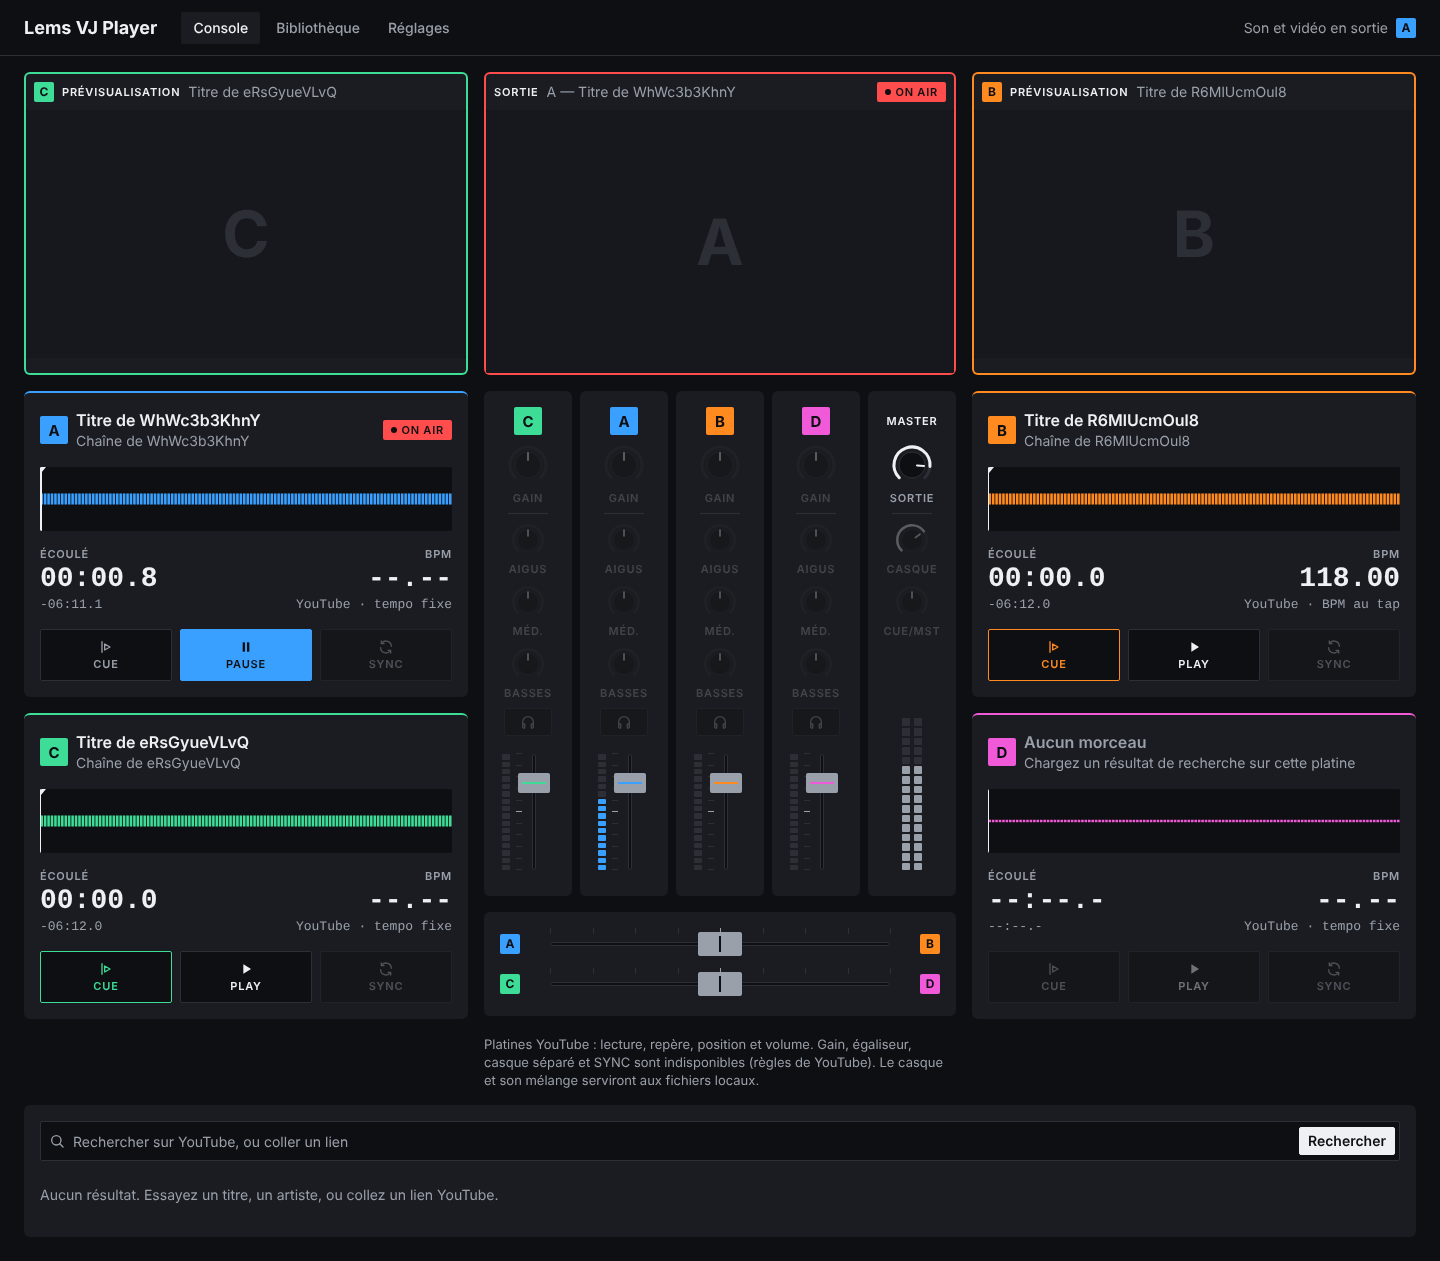
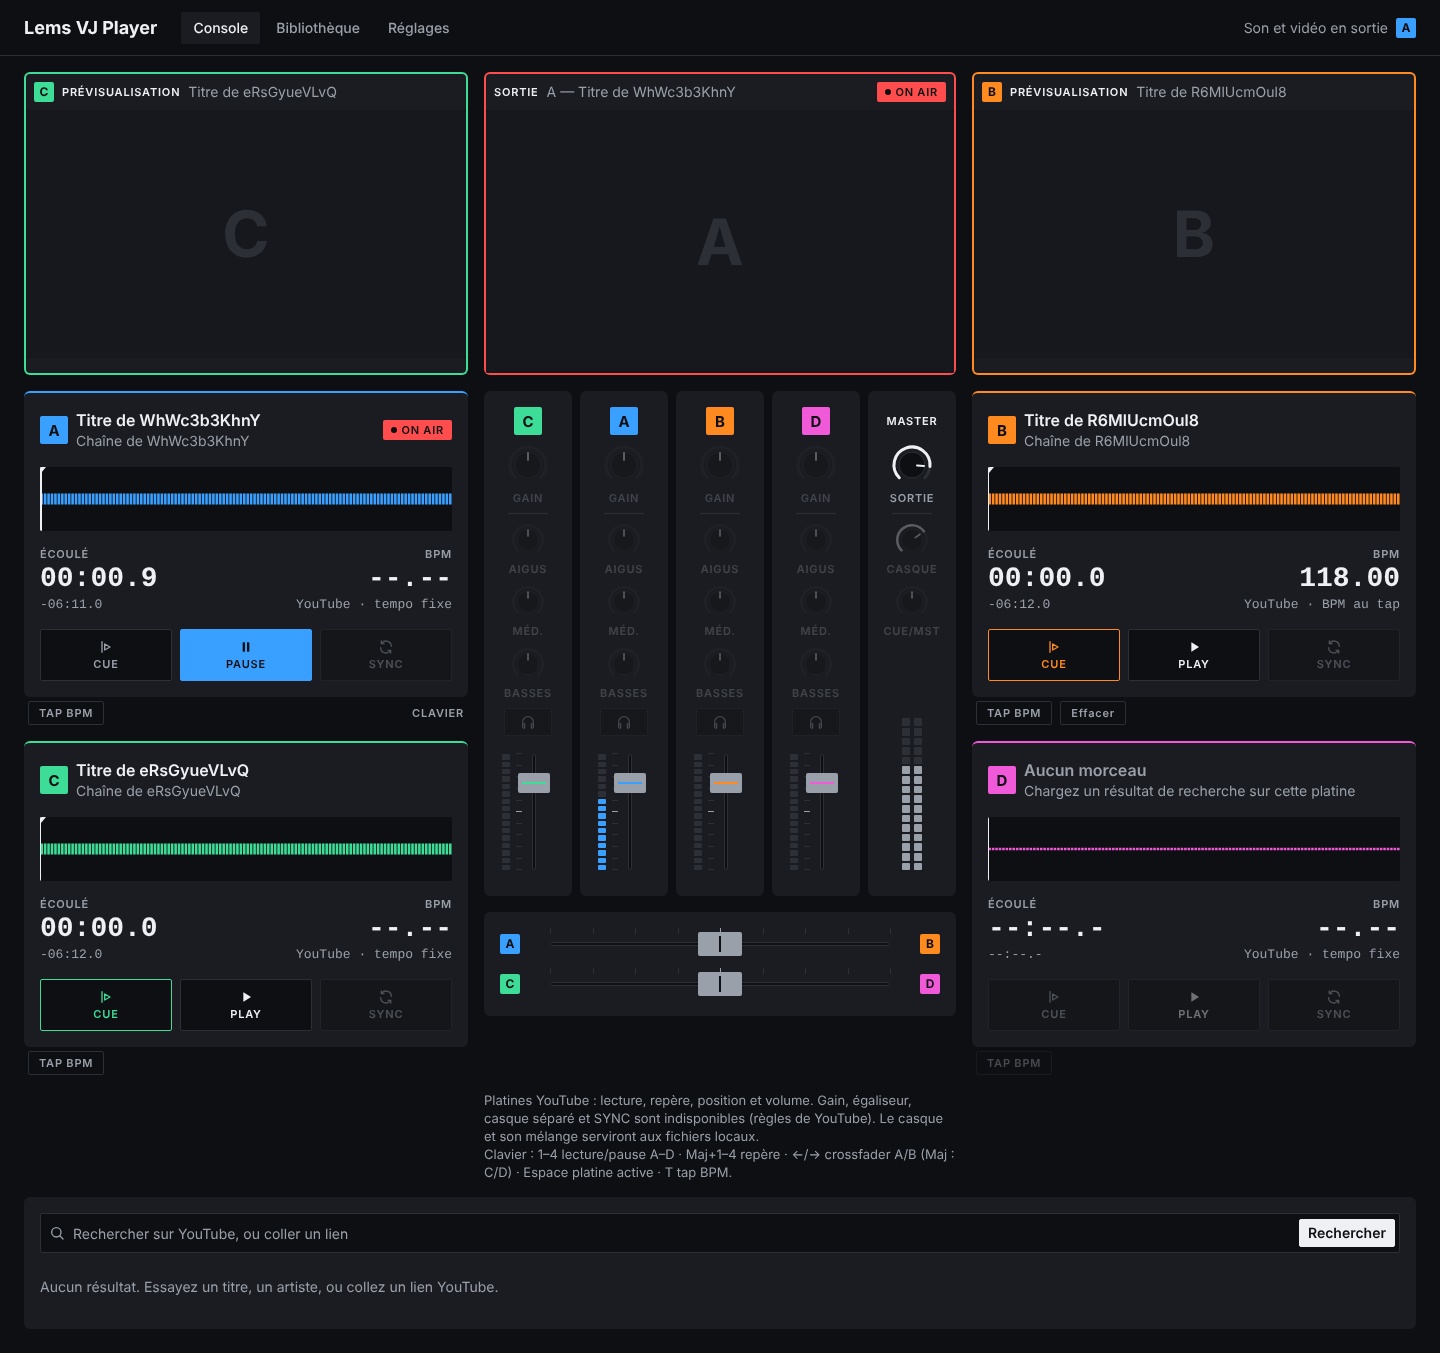
Console : raccourcis clavier et BPM au tap
1–4 lecture/pause A–D, Maj+1–4 repère, flèches crossfader A/B (Maj : C/D),
Espace platine active, T tap BPM ; bouton TAP BPM sous chaque platine
(4 frappes au moins, médiane des intervalles), BPM gardé en bibliothèque.
Touches physiques (code) : mêmes gestes en AZERTY et en QWERTY.
5 vérifications de plus (46).

Claude-Session: https://claude.ai/code/session_019qTL3vEknq4XVENghWxg6y

diff --git a/app/src/views/Console.tsx b/app/src/views/Console.tsx
@@ -1,5 +1,5 @@
 // Vue 1 — la console : quatre platines, le mixeur, les moniteurs, la recherche.
-import { useMemo, useState } from 'react';
+import { useEffect, useMemo, useRef, useState } from 'react';
 import { DECKS, L, type DeckId, type SearchResult } from '../design';
 import { engine, useEngine } from '../engine';
 import { Tray, assignSlots } from '../Stage';
@@ -29,6 +29,37 @@ export function Console({ settings, library, onLibraryChange }: ConsoleProps) {
   const [results, setResults] = useState<SearchResult[]>([]);
   const [loading, setLoading] = useState(false);
   const [error, setError] = useState<string | null>(null);
+  const taps = useRef<Partial<Record<DeckId, number[]>>>({});
+
+  // BPM au tap : au moins 4 frappes, médiane des intervalles ; une pause de 2 s recommence.
+  function tap(d: DeckId) {
+    const now = performance.now(), list = (taps.current[d] ?? []).filter((t) => now - t < 2000);
+    list.push(now); taps.current[d] = list.slice(-12);
+    if (list.length >= 4) {
+      const gaps = list.slice(1).map((t, i) => t - list[i]).sort((x, y) => x - y);
+      const med = gaps[gaps.length >> 1];
+      engine.setBpm(d, Math.round((60000 / med) * 10) / 10);
+    }
+  }
+
+  // Raccourcis (indépendants de la disposition du clavier : chiffres, flèches, espace).
+  // 1–4 : lecture/pause A–D · Maj+1–4 : repère A–D · ←/→ : crossfader A/B · Maj+←/→ : C/D · Espace : platine active · T : BPM au tap.
+  useEffect(() => {
+    const onKey = (e: KeyboardEvent) => {
+      const t = e.target as HTMLElement | null;
+      if (t && (t.tagName === 'INPUT' || t.tagName === 'TEXTAREA' || t.isContentEditable)) return;
+      const m = /^Digit([1-4])$/.exec(e.code);
+      if (m) { const d = DECKS[+m[1] - 1]; e.preventDefault(); e.shiftKey ? engine.cue(d) : engine.toggle(d); engine.focus(d); return; }
+      if (e.code === 'ArrowLeft' || e.code === 'ArrowRight') {
+        const pair = e.shiftKey ? 'cd' : 'ab', cur = engine.getState().mix[pair];
+        e.preventDefault(); engine.setCrossfader(pair, cur + (e.code === 'ArrowRight' ? 0.1 : -0.1)); return;
+      }
+      if (e.code === 'Space') { const d = engine.focused ?? engine.program(); if (d) { e.preventDefault(); engine.toggle(d); } return; }
+      if (e.code === 'KeyT') { const d = engine.focused ?? engine.program(); if (d) { e.preventDefault(); tap(d); } }
+    };
+    window.addEventListener('keydown', onKey);
+    return () => window.removeEventListener('keydown', onKey);
+  }, []);
 
   async function search(q: string) {
     if (!q.trim()) return;
@@ -56,12 +87,19 @@ export function Console({ settings, library, onLibraryChange }: ConsoleProps) {
   function deckView(d: DeckId) {
     const dk = st.decks[d], t = dk.track;
     return (
-      <L.Deck key={d} deck={d} source="youtube" title={t?.title} artist={t ? (t.channel || 'YouTube') : undefined}
+      <div key={d} className="deck-block" onPointerDownCapture={() => engine.focus(d)}>
+      <L.Deck deck={d} source="youtube" title={t?.title} artist={t ? (t.channel || 'YouTube') : undefined}
         duration={dk.duration} bpm={t?.bpm ?? null} keyName={t ? (t.bpm ? 'YouTube · BPM au tap' : 'YouTube · tempo fixe') : null}
         position={dk.position} cuePoint={dk.cuePoint} playing={dk.playing} peaks={FLAT_PEAKS}
         onPlayingChange={(p: boolean) => (p ? engine.play(d) : engine.pause(d))}
         onCue={() => engine.cue(d)} onSeek={(s: number) => engine.seek(d, s)}
         prelisten={st.mix.strips[d].prelisten} onAir={onAir.includes(d)} />
+      <div className="deck-tools">
+        <button type="button" className={'tapbtn lm-deck-' + d} disabled={!t} aria-label={'BPM au tap, platine ' + d.toUpperCase()} title="Frappez en rythme, 4 fois au moins (ou touche T)" onClick={() => tap(d)}>TAP BPM</button>
+        {t?.bpm ? <button type="button" className="tapbtn" aria-label="Effacer le BPM" onClick={() => { taps.current[d] = []; engine.setBpm(d, undefined); }}>Effacer</button> : null}
+        {engine.focused === d ? <span className="deck-focus" aria-label="Platine commandée au clavier">clavier</span> : null}
+      </div>
+      </div>
     );
   }
 
@@ -115,7 +153,7 @@ export function Console({ settings, library, onLibraryChange }: ConsoleProps) {
       </div>
       <div className="col">{deckView('b')}{deckView('d')}</div>
 
-      <p className="hint">Platines YouTube : lecture, repère, position et volume. Gain, égaliseur, casque séparé et SYNC sont indisponibles (règles de YouTube). Le casque et son mélange serviront aux fichiers locaux.</p>
+      <p className="hint">Platines YouTube : lecture, repère, position et volume. Gain, égaliseur, casque séparé et SYNC sont indisponibles (règles de YouTube). Le casque et son mélange serviront aux fichiers locaux.<br />Clavier : 1–4 lecture/pause A–D · Maj+1–4 repère · ←/→ crossfader A/B (Maj : C/D) · Espace platine active · T tap BPM.</p>
       {error ? <p className="error" role="alert">{error}</p> : null}
       <div className="search">
         <L.TrackSearch query={query} onQueryChange={setQuery} onSearch={search} loading={loading} results={results} loaded={loadedIds} onLoad={load}

diff --git a/app/src/app.css b/app/src/app.css
@@ -17,6 +17,13 @@
 .error { grid-column: 1 / -1; display: flex; gap: 6px; align-items: center; margin: 0; font-weight: 600; color: var(--ink); }
 .error::before { content: "!"; display: inline-flex; width: 16px; height: 16px; border-radius: var(--radius-full); background: var(--ink); color: var(--surface); font: 700 11px/16px var(--font-sans); justify-content: center; }
 
+.deck-block { display: flex; flex-direction: column; gap: var(--space-1); }
+.deck-tools { display: flex; align-items: center; gap: var(--space-2); padding: 0 var(--space-1); min-height: 24px; }
+.tapbtn { height: 24px; padding: 0 10px; border: 1px solid var(--line); border-radius: var(--radius-sm); background: transparent; color: var(--ink-muted); font: 600 11px/14px var(--font-sans); letter-spacing: 0.8px; cursor: pointer; }
+.tapbtn:hover:not(:disabled) { color: var(--ink); border-color: var(--ink-muted); }
+.tapbtn:disabled { opacity: 0.4; cursor: not-allowed; }
+.deck-focus { margin-left: auto; font: 600 11px/14px var(--font-sans); letter-spacing: 0.8px; text-transform: uppercase; color: var(--ink-muted); }
+
 /* Emplacement d'un lecteur dans un moniteur : le lecteur lui-même est posé par-dessus (voir Stage). */
 .slot { position: absolute; inset: 0; }
 .monitor-note { position: absolute; inset: 0; display: flex; flex-direction: column; align-items: center; justify-content: center; gap: var(--space-1); padding: var(--space-4); text-align: center; font: 400 13px/18px var(--font-sans); color: var(--ink-muted); }

diff --git a/app/src/engine.ts b/app/src/engine.ts
@@ -117,7 +117,7 @@ export class Engine {
     this.showPreview(d);
   }
   eject(d: DeckId) { this.players[d]?.stop(); this.patchDeck(d, emptyDeck()); }
-  play(d: DeckId) { if (!this.state.decks[d].track) return; this.patchDeck(d, { playing: true }); this.players[d]?.play(); }
+  play(d: DeckId) { if (!this.state.decks[d].track) return; this.focused = d; this.patchDeck(d, { playing: true }); this.players[d]?.play(); }
   pause(d: DeckId) { this.patchDeck(d, { playing: false }); this.players[d]?.pause(); }
   toggle(d: DeckId) { this.state.decks[d].playing ? this.pause(d) : this.play(d); }
   /** CUE : en lecture, revient au repère et s'arrête ; à l'arrêt, pose le repère ici. */
@@ -133,7 +133,13 @@ export class Engine {
     }
   }
   seek(d: DeckId, seconds: number) { this.players[d]?.seek(seconds); this.patchDeck(d, { position: seconds }); }
-  setBpm(d: DeckId, bpm: number | undefined) { const t = this.state.decks[d].track; if (t) this.patchDeck(d, { track: { ...t, bpm } }); }
+  setBpm(d: DeckId, bpm: number | undefined) {
+    const t = this.state.decks[d].track; if (!t) return;
+    const track = { ...t, bpm }; this.patchDeck(d, { track }); this.onTrackLoaded?.(track);
+  }
+  /** La platine que le clavier commande : la dernière touchée, sinon celle à l'antenne. */
+  focused: DeckId | null = null;
+  focus(d: DeckId) { this.focused = d; }
 
   // ----- mixeur -----
   setStrip(d: DeckId, v: StripValue) {

diff --git a/docs/plan.md b/docs/plan.md
@@ -272,5 +272,5 @@ Dossier `app/` (Tauri 2.12.3, React 19, Vite, TypeScript ; cœur Rust des essais
 - **Console** (vue 1) : 4 platines YouTube réelles, mixeur appliqué aux volumes des lecteurs, crossfaders A/B et C/D (3 courbes), moniteurs (2 prévisualisations + sortie), recherche (lien collé sans clé ; mots-clés avec clé, quota compté). Les lecteurs vivent dans une « scène » au niveau de l'application et sont posés sur les moniteurs : changer de vue ne les détruit pas ; une platine hors moniteur reste visible en 356 × 200.
 - **Bibliothèque** (vue 2) : historique, favoris, playlists, filtre, chargement sur A/B/C/D. **Réglages** (vue 3) : son, latence, courbe, écran de sortie, plein écran, transition, titre, clé YouTube, appareils, à propos. Enregistrés en JSON dans le dossier de données (écriture atomique).
 - **Sortie** (vue 7a) : fenêtre sur l'écran choisi, deux lecteurs muets, suivi de la lecture réelle (follower des essais 5/6), préchargement de la platine suivante, coupe franche, titre optionnel, Échap.
-- Vérifié dans le cloud : TypeScript sans erreur, `cargo check` Windows, **41 vérifications des pages** avec doublures (voir `app/tests/`). Compilation automatique Mac + Windows : `.github/workflows/application.yml`.
+- Vérifié dans le cloud : TypeScript sans erreur, `cargo check` Windows, **46 vérifications des pages** avec doublures (voir `app/tests/`). Compilation automatique Mac + Windows : `.github/workflows/application.yml`.
 - À faire ensuite, sur appareils : vrai YouTube dans la console (Mac), fenêtre de sortie sur l'écran externe, puis raccourcis clavier, BPM au tap, et l'étape 5 (appareils distants) sur le même cœur réseau.

diff --git a/app/README.md b/app/README.md
@@ -58,7 +58,7 @@ Compiler une application installable : `npm run app:build`. La compilation autom
 npm run build && npm test
 ```
 
-41 vérifications des trois vues et de la fenêtre de sortie, avec un faux lecteur YouTube et une fausse application : elles prouvent la logique des pages, pas le comportement du vrai YouTube. Côté Rust : `cargo check` dans `src-tauri/` (Windows : `--target x86_64-pc-windows-msvc`).
+46 vérifications des trois vues et de la fenêtre de sortie, avec un faux lecteur YouTube et une fausse application : elles prouvent la logique des pages, pas le comportement du vrai YouTube. Côté Rust : `cargo check` dans `src-tauri/` (Windows : `--target x86_64-pc-windows-msvc`).
 
 ## Clé YouTube
 
